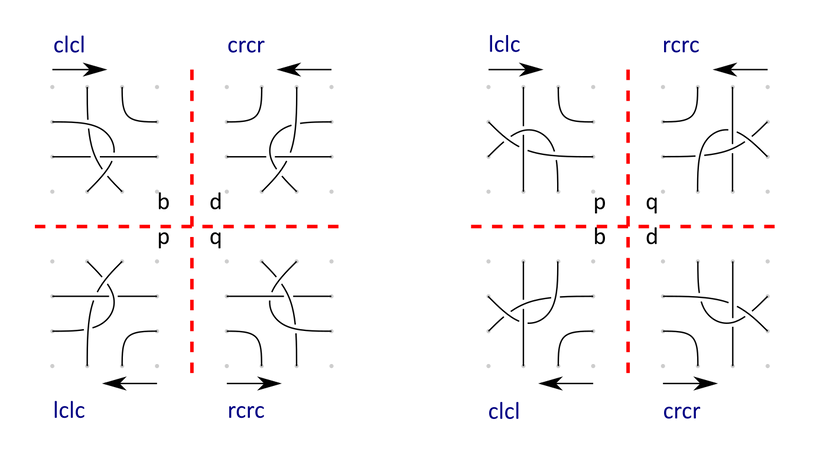
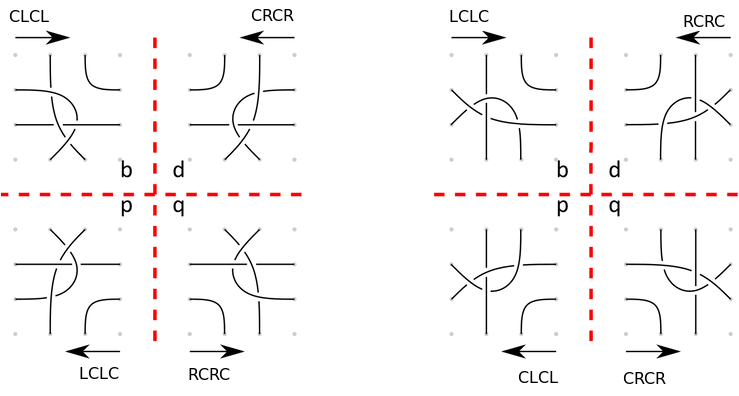
elaborate symmetry + DIY

diff --git a/docs/Nets/index.md b/docs/Nets/index.md
@@ -6,8 +6,6 @@ Table of contents
 -----------------
 * [Introduction](#introduction)
 * [Symmetry introduction](#symmetry-introduction)
-* [Symmetry on a diagonal net](#symmetry-on-a-diagonal-net)
-* [Symmetry on a square net](#symmetry-on-a-square-net)
 * [Tweak patterns](#tweak-patterns)
 * [DIY patterns](#diy-patterns)
 * [Hints](#hints-for-the-nets-page)
@@ -29,21 +27,22 @@ Introduction
 The page has two sections: stitches and diagrams. 
 
 The stitches section has
-* a gallery with some arbitrary examples of stitches
 * an input box where you can define a stitch from scratch or modify a stitch selected from the gallery
+* a gallery with some arbitrary examples of stitches, the links put the stitch in the input box
 * flip buttons to mirror the stitch in the input box
-* a table with mirrored versions of a stitch
+* a table with mirrored versions of the stitch in the input box
 * a wand that updates the table and clears the diagrams
 
 The wands in the diagrams section generate the thread diagrams.
+The diagrams are divided into groups, generating all at once could choke your browser.
+Please wait for the animation to complete before clicking the wand again.
+
 Highlighting stitches can help to recognize the stitches in the diagrams.
 The colours have no other meaning than to match the stitches 
 in the thread diagrams with their positions in the pair diagrams.
 
 The thread diagrams use one, two or four of the mirrored stitches shown in the table. 
 With asymmetrical stitches you get more diagrams.
-
-The captions in the stitch gallery are links that put a definition in the input box where you can adjust it.
 
 You can argue that the last stitches in the gallery are multiple stitches. 
 GroundForge does not know how threads react to pins so everything with just two pairs is a single stitch.
@@ -52,13 +51,16 @@ Anyway, these stitches are too large for the small space per diagram.
 Symmetry introduction
 ---------------------
 
-This page was born out of curiosity about the effects of symmetry.
-Investigation of the theory after experimenting caused a mathematical a headache:
-we applied flipping for diagonal grounds on square grounds.
-However, it is not necessary to understand the math or apply it correctly
+It is not necessary to understand the theory of symmetry or apply it correctly
 to discover interesting grounds with the [nets] page.
-The theory is explained on the [flip](https://d-bl.github.io/GroundForge-help/clips/flip).
-page. 
+However, the theory can help you to understand the results.
+
+This page was born out of curiosity about the effects of symmetry.
+Investigating the theory after taking a plunge with experiments caused a surprise:
+flipping on diagonal grounds works as the buttons suggest,
+on square grounds you also need to change the working direction.
+The details are explained on the [flip](https://d-bl.github.io/GroundForge-help/clips/flip#symmetry).
+page.
 
 
 Tweak patterns
@@ -69,26 +71,34 @@ The linked page starts with a button that can reveal help links.
 
 First steps:
 * Apply colour to the threads to reveal how they flow through the net.
-* Adjust how pairs enter and leave the foot side.
+* Adjust the number of accumulated twists.
+* Adjust the number of twists for pairs entering and leaving the foot side.
 
-The page has a similar gallery of stitches (and iput box with flip buttons) as on the nets page.
+The tweaking page (called stitches in the page address and _stitches and threads_ in the subtitle)
+has a similar gallery of stitches (and iput box with flip buttons) as the nets page.
 The difference is a [color code](color-rules) that supports unorthodox stitches.
 The pair diagram next to the thread diagrams uses the same color code.
-You may see cross marks in the pair diagram to indicate twists.
-Hover with the cursor over the stitches to see which one has the leading or trailing twists. 
-This way you can learn how define the desired stitch in the input box.
-The click the stitch in the pair diagram to replace it.
+
+You may see cross marks in the pair diagram to indicate twists between stitches.
+Hover with the cursor over the stitches to see which one is responsible for those twists. 
+This way you can learn how change which stitche via the input box.
+Then click the desired stitch in the pair diagram to replace it.
+
 
 DIY patterns
 ------------
 
-The diagrams generated on the nets page only scratch the surface of possible stitch combinations
-After some experience with tweaking patterns, you can start to create
-your own patterns with other combinations of (unrelated) stitches.
+The diagrams generated on the nets page only scratch the surface of possible stitch combinations.
+Even a two by two square net has more options.
+For example odd numbers of two stitches out of the four mirrored stitches,
+or combinations with three of the four stitches. 
+With some experience with tweaking patterns, it becomes easier to create
+your own patterns with those combinations stitches or even unrelated stitches.
 
-See also [MAE-nets](https://d-bl.github.io/MAE-gf/docs/nets) and [embelished clothwork](https://d-bl.github.io/MAE-gf/docs/ec)
-
-... TODO ...
+The [embelished clothwork](https://d-bl.github.io/MAE-gf/docs/ec)
+An [e-book](https://www.patreon.com/theadventurouslacemakers/shop/embellished-clothwork-ebook-by-marian-221058?source=storefront)
+with the same name applies the square nets in motifs.
+See also [MAE-nets](https://d-bl.github.io/MAE-gf/docs/nets) for the other nets.
 
 
 Hints for the nets page

diff --git a/docs/clips/flip.md b/docs/clips/flip.md
@@ -14,11 +14,25 @@ Soundless video clip.
 </video>   
 
 The clip shows that the buttons `↔` and `↕` change the text field.
-You can subsequently assign the text value to stitches in the pair diagram.
+It subsequently assigns the text value to stitches in the pair diagram.
+
+Symmetry
+--------
+
+Table of contents
+
+* [Symmetry introduction](#symmetry-introduction)
+* [Symmetry on a diagonal net](#symmetry-on-a-diagonal-net)
+  * [What the flip buttons do](#what-the-flip-buttons-do)
+  * [Internal symmetry](#internal-symmetry)
+* [Symmetry on a square net](#symmetry-on-a-square-net)
+* [Wrapping up](#wrapping-up)
 
 Symmetry on a diagonal net
 --------------------------
-Just an example of a stitch placed on a diagonal net.
+
+Just an example of mirrored stitches placed on a diagonal net.
+The diagram on the right shows the working directions of the stitches.
 
 ![](external-symmetry.png)
 
@@ -32,7 +46,7 @@ a. Replace each R in the with L and each L with R
 
 Mirrored representation: b ⇔ p, d ⇔ q
 
-a. Read backwards
+a. Read backwards  
 b. Re-order twist groups: T < R < L
 
     CTCRC ⇒ CRCTC
@@ -40,9 +54,9 @@ b. Re-order twist groups: T < R < L
 
 How to make the quartet of stitches
 
-a. Apply mirror b ⇒ d
-b. Apply mirror d ⇒ q
-c. Apply mirror q ⇒ p
+a. Apply mirror b ⇒ d  
+b. Apply mirror d ⇒ q  
+c. Apply mirror q ⇒ p  
 
     CTCRC ⇒ CTCLC ⇒ CLCTC ⇒ CRCTC
     CTRCLC ⇒ CTLCRC ⇒ CLCTRC ⇒ CRCTLC
@@ -64,7 +78,15 @@ The working directions in a square net cause complications when flipping stitche
 
 ![](square-symmetry.png)
 
-... TODO ...
+In the diagrams above, b and q should be executed on a left to right row, 
+d and p on a right to left row.
+Compare b of the left diagram with p of the right diagram:
+only changing the working direction rotates the stitch by 45 degrees in a clockwise direction.
+Compare both b's and we that reading the stitch backwards has see the same effect.
+
+The algorithm for the flip buttons assumes stitches are placed on diagonal rows. 
+To really mimic the `↔` and `↕` reflections, we should also change the working directions.
+The _both_ button works as expected. 
 
 
 Wrapping up
